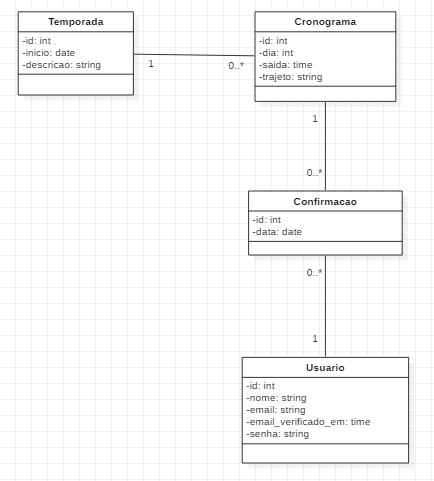
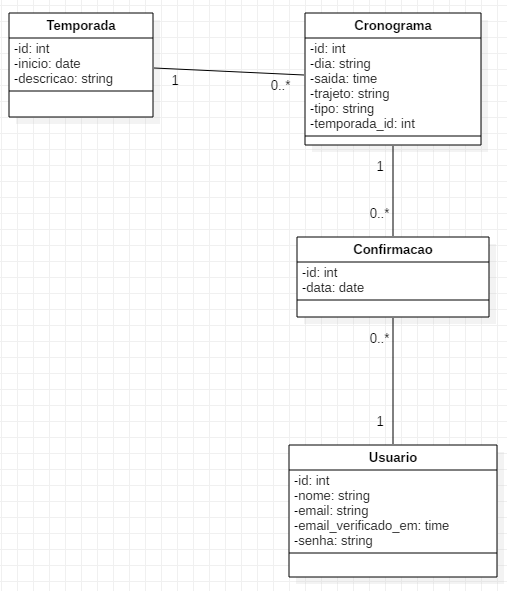
Att

Changed region(s): [[0.0, 0.0, 0.9885, 0.9979]]

diff --git a/trabalho-final/public/blog/js/ajax.js b/trabalho-final/public/blog/js/ajax.js
@@ -1,5 +1,5 @@
 $(document).ready(function(){
-	$('form').submit(function(event) {
+	$('.pexquisa').submit(function(event) {
 		event.preventDefault();
 		busca();
 	});

diff --git a/trabalho-final/resources/views/temporadas/show.blade.php b/trabalho-final/resources/views/temporadas/show.blade.php
@@ -1,24 +1,36 @@
 @extends('layouts.blog')
 
 @section('conteudo')
-  <!-- Title -->
-  
 
-  <!-- Author -->
-  <p class="lead">
-    Iniciado em 
-    <a href="#">{{ $temporada->inicio }}</a>
-  </p>
+    <div>
+        <h1>{{ $temporada->descricao }}</h1>
+    </div>
 
-  <hr>
-  <!-- Date/Time -->
-  <p>Publicado em {{ $temporada->created_at }}</p>
+    <div class="temporadas">
+            <div class="card border-dark text-center" style="margin-bottom: 15px; margin-top: 15px;">
+                <div class="card-header">
+                    $cronograma->dia 
+                </div>
+                <div class="card-body row">
+                    <div class="col-md">
+                        <h5 class="card-title">Tipo</h5>
+                        <div>$cronograma->tipo </div>
+                    </div>
 
-  <hr>
+                    <div class="col-md">
+                        <h5 class="card-title">Saída</h5>
+                        <div>$cronograma->saida </div>
+                    </div>
 
-  <!-- Post Content -->
-  <p>{{ $temporada->descricao }}</p>
-
-  <hr>
+                    <div class="col-md">
+                        <h5 class="card-title">Trajeto</h5>
+                        <div>$cronograma->trajeto </div>
+                    </div>
+                </div>
+                <div class="card-footer text-muted">
+                    <a href="#" class="btn btn-primary">Solicitar Viagem</a>
+                </div>
+            </div>
+    </div>
 
 @endsection

diff --git a/trabalho-final/app/Http/Controllers/CronogramasController.php b/trabalho-final/app/Http/Controllers/CronogramasController.php
@@ -3,42 +3,33 @@
 namespace App\Http\Controllers;
 
 use Illuminate\Http\Request;
+use app\Temporada;
+use App\Cronograma;
+use Auth;
 
 class CronogramasController extends Controller
 {
     public function index() {
         $cronogramas = Cronograma::all();
-        return view('cronograma.index', compact('cronogramas'));
+        return view('cronogramas.index', compact('cronogramas'));
     }
 
-    public function create()
-    {
+    
+    public function create() {
         return view('cronogramas.create');
     }
 
-    public function store(Request $request)
-    {
+    
+    public function store(Request $request) {
         $cronograma = new Cronograma;
         $cronograma->fill($request->all());
+        $cronograma->temporada()->associate($temporada);
         $cronograma->save();
+
+        return redirect(route('cronogramas.index'));
     }
 
-    public function show(Cronograma $cronograma)
-    {
+    public function show(Cronograma $cronograma) {
         return view('cronogramas.show', compact('cronograma'));
-    }
-
-    public function edit(Cronograma $cronograma)
-    {
-        return view('cronogramas.edit', compact('cronograma'));    }
-
-    public function update(Request $request, Cronograma $cronograma)
-    {
-        
-    }
-
-    public function destroy(Cronograma $cronograma)
-    {
-        
     }
 }

diff --git a/trabalho-final/resources/views/temporadas/index.blade.php b/trabalho-final/resources/views/temporadas/index.blade.php
@@ -10,8 +10,9 @@
 			<input type="text" class="form-control busca-input" id="basic-url" aria-describedby="basic-addon3" name="filtro" value="">
 
 			<div class="input-group-append">
-				<button type="submit" class="input-group-text">
-					<span class="fas fa-search"></span>
+				<button type="submit" class="input-group-text pexquisa">
+					<!-- <span class="fas fa-search"></span> -->
+					<img src="http://www.stickpng.com/assets/images/59cfc4d2d3b1936210a5ddc7.png" style="width: 15px; height: auto">
 				</button>
 			</div>
 		</div>
@@ -27,21 +28,15 @@
 					<p class="card-text">{{ $temporada->created_at->diffForHumans() }}</p>
 					{{ link_to_route(
 						'temporadas.show',
-						'Visualizar &rarr;',
+						'Visualizar Cronograma &rarr;',
 						[$temporada->id],
 						['class' => 'btn btn-primary']
 					) }}
-					<!-- {{ link_to_route(
-						'temporadas.edit',
-						'Editar &rarr;',
-						[$temporada->id],
-						['class' => 'btn btn-primary']
-					) }} -->
 					
 				</div>
 			</div>
 
         @endforeach
-
     </div>
+
 @endsection

diff --git a/trabalho-final/database/migrations/2018_11_11_213855_create_cronogramas_table.php b/trabalho-final/database/migrations/2018_11_11_213855_create_cronogramas_table.php
@@ -15,9 +15,15 @@ class CreateCronogramasTable extends Migration
     {
         Schema::create('cronogramas', function (Blueprint $table) {
             $table->increments('id');
-            $table->integer('dia');
+            $table->string('dia');
             $table->time('saida');
             $table->string('trajeto');
+            $table->string('tipo');
+
+            $table->unsignedInteger('temporada_id');
+            $table->foreign('temporada_id')
+                  ->references('id')
+                  ->on('temporadas');
 
             $table->timestamps();
         });

diff --git a/trabalho-final/app/Cronograma.php b/trabalho-final/app/Cronograma.php
@@ -4,14 +4,15 @@ namespace App;
 
 use Illuminate\Database\Eloquent\Model;
 
-class Cronograma extends Model
-{
-   public function confirmacao(){
+class Cronograma extends Model {
 
-   		return $this->hasMany(
-   			Confirmacao::class);
-   }
-   public function user() {
-   		return $this->belogsTo(User::class);
-   }
+	protected $fillable = ['dia', 'saida', 'trajeto', 'tipo'];
+	
+	public function confirmacao(){
+		return $this->hasMany(Confirmacao::class);
+	}
+	
+	public function user() {
+		return $this->belogsTo(User::class);
+	}
 }

diff --git a/trabalho-final/routes/web.php b/trabalho-final/routes/web.php
@@ -22,6 +22,9 @@ Route::post('/temporadas', 'TemporadasController@store')
     ->middleware('auth')
     ->name('temporadas.store');
 
+Route::post('/temporadas/{temporada}/cronogramas', 'CronogramasController@store')
+    ->middleware('auth')
+    ->name('cronogramas.store');
 
 Auth::routes();
 

diff --git a/trabalho-final/app/Http/Controllers/ConfirmacaosController.php b/trabalho-final/app/Http/Controllers/ConfirmacaosController.php
@@ -3,6 +3,7 @@
 namespace App\Http\Controllers;
 
 use Illuminate\Http\Request;
+use App\Confirmacao;
 
 class ConfirmacaosController extends Controller
 {

diff --git a/trabalho-final/resources/views/layouts/blog.blade.php b/trabalho-final/resources/views/layouts/blog.blade.php
@@ -1,5 +1,5 @@
 <!DOCTYPE html>
-<html lang="en">
+<html lang="pt-BR">
 
   <head>
 
